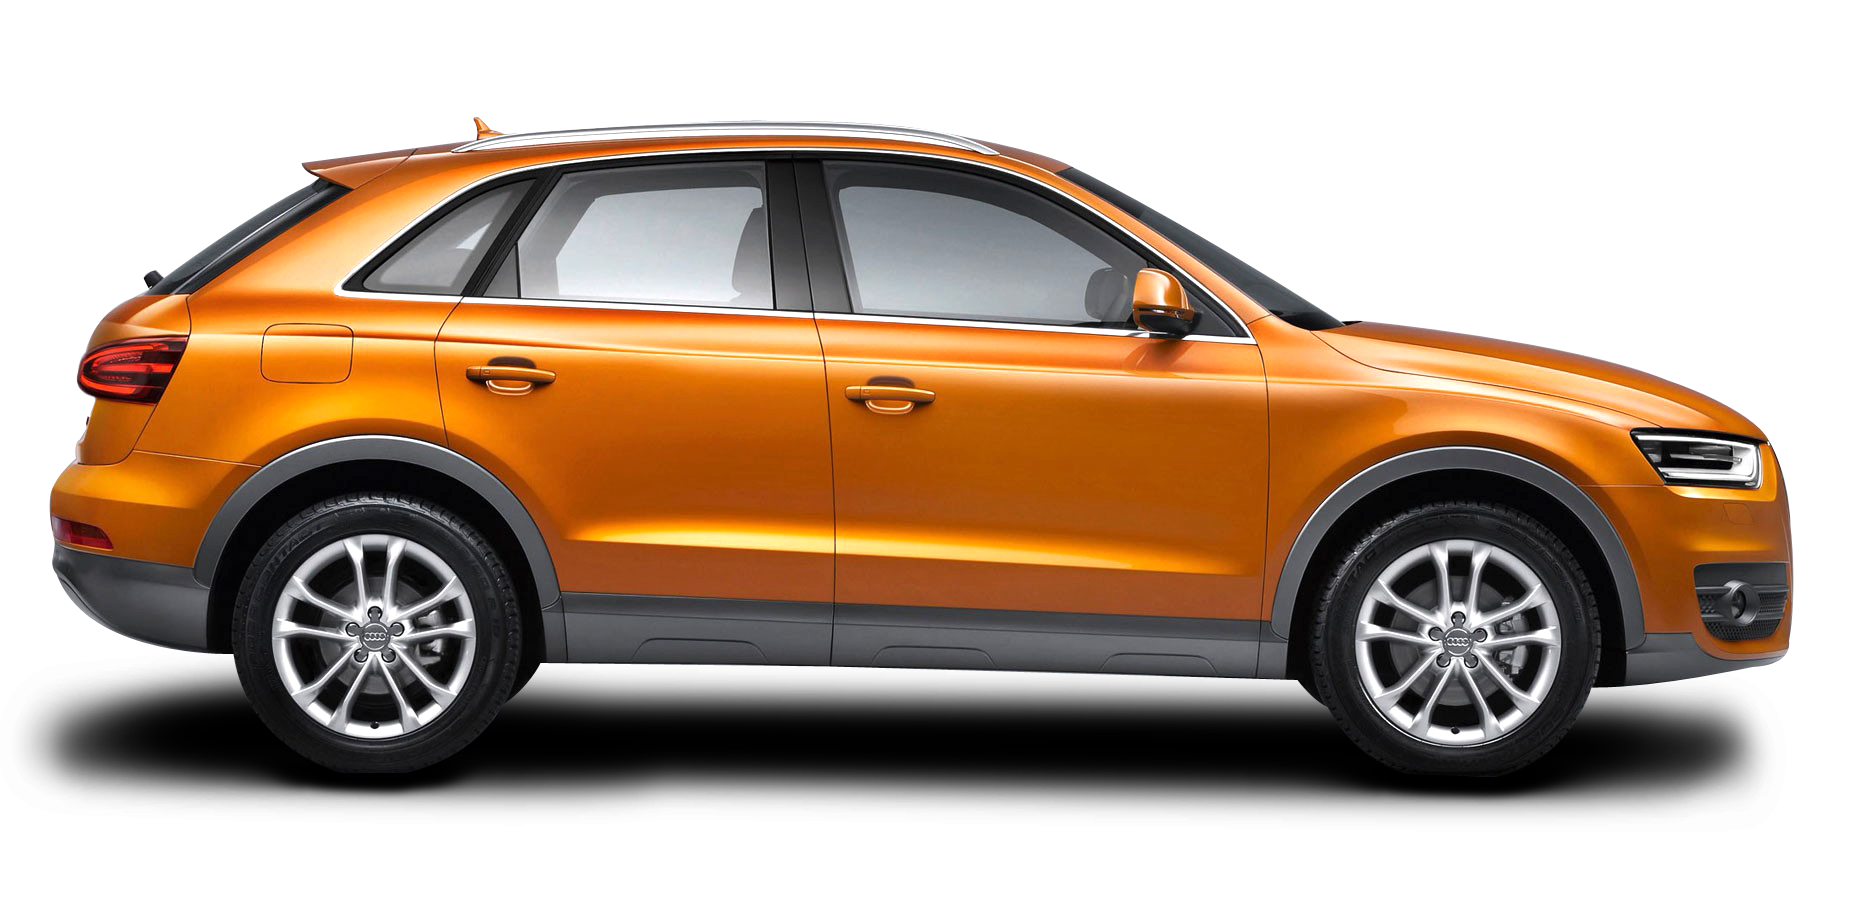
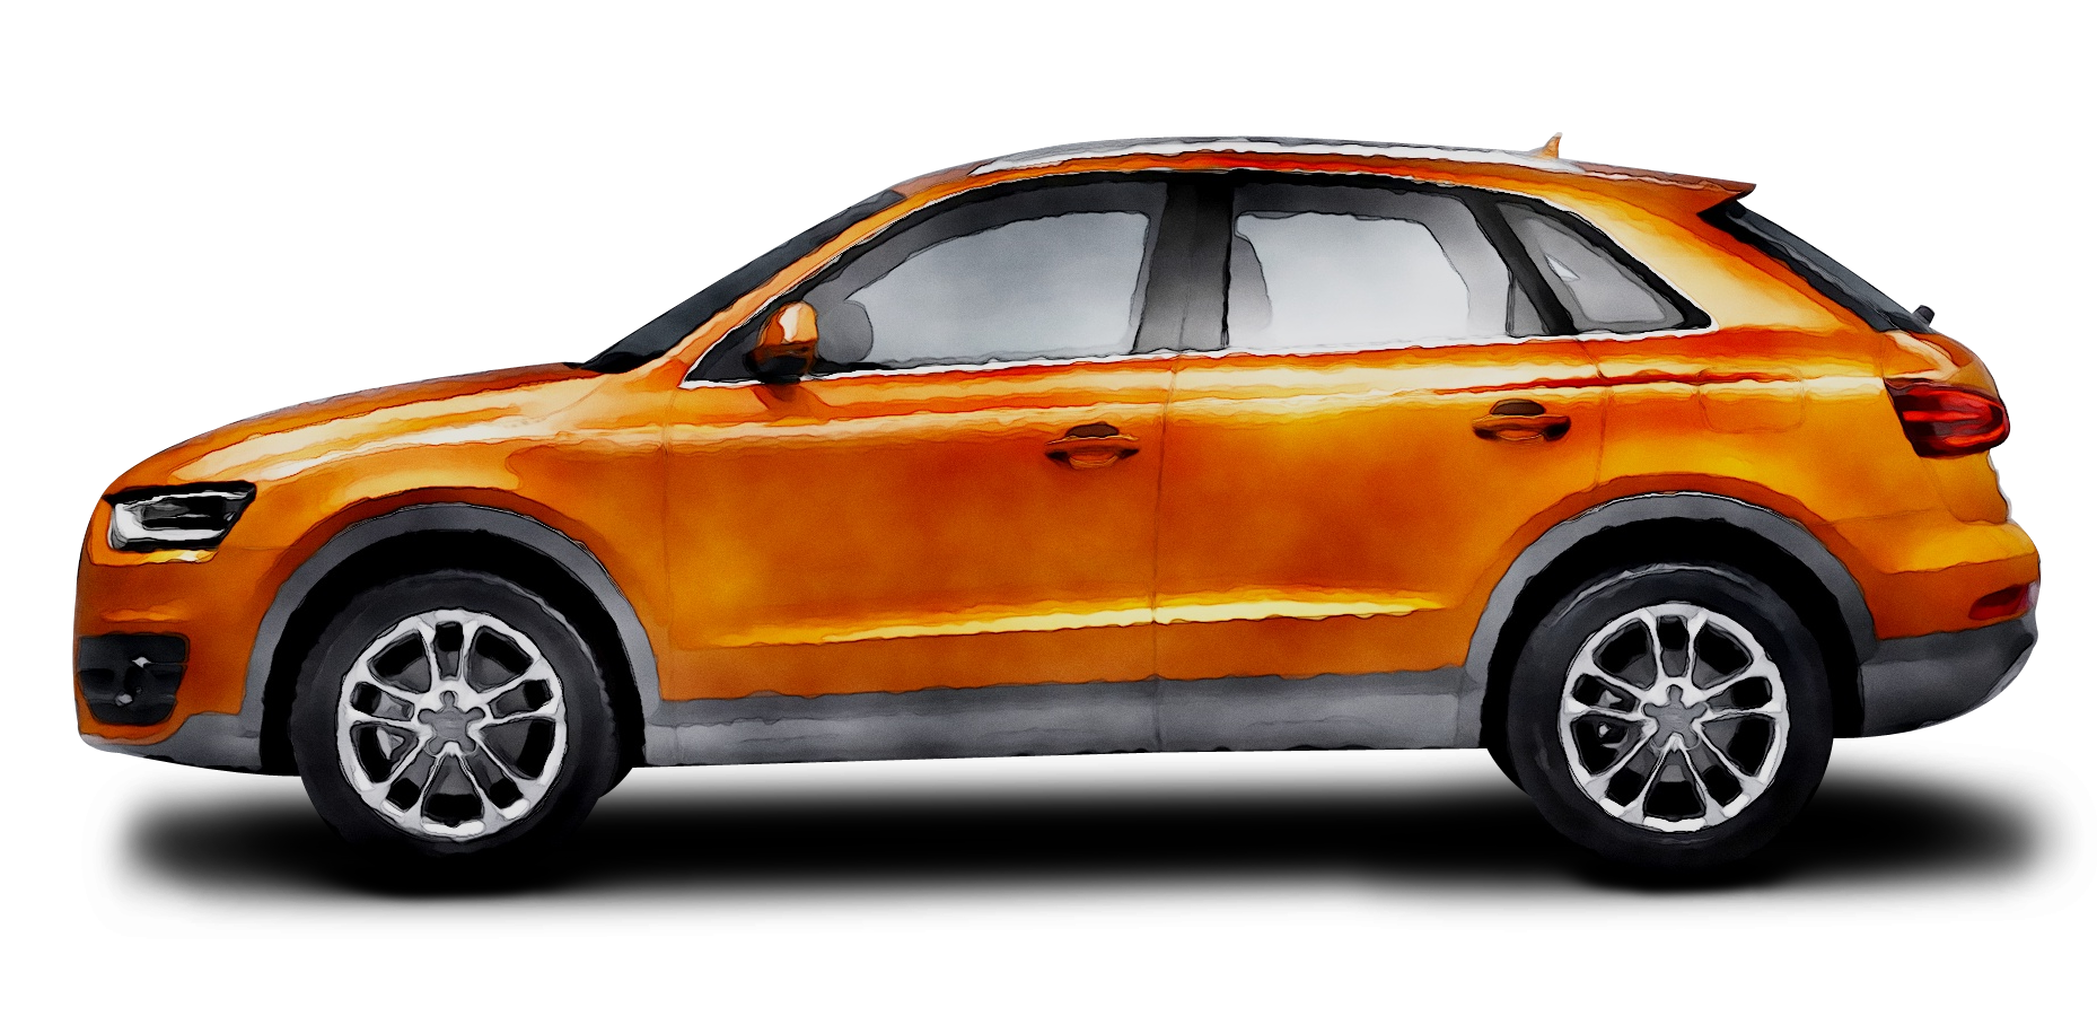
Adicionado caracteristicas do carro

diff --git a/src/components/CarInfo2/index.js b/src/components/CarInfo2/index.js
@@ -1,0 +1,69 @@
+import React from 'react';
+import styled from 'styled-components';
+
+import CarImg from '../../img/car-info2.png';
+
+const WrapperInfo = styled.div`
+    width: 100%;
+    height: 50%;
+    display: flex;
+    color: #A4ADB8;
+`;
+
+const DivCar = styled.div`
+    width: 45%;
+    height: 100%;
+    position: relative;
+    margin-left: 10px;
+    padding-left: 7.5%;
+
+    img {
+        position: absolute;
+        width: 90%;
+        height: 90%;
+        object-fit: contain;
+    }
+`;
+
+const DivDescription = styled.div`
+    width: 45%;
+    height: 100%;
+    padding-left: 10px;
+    padding-right: 5%;
+
+
+    h1 {
+        font-size: clamp(2rem, 4vw, 5rem);
+        color: rgba(0,0,0,0.8);
+        font-weight: bold;
+
+        span {
+            color: #0A4DF2;
+        }
+        
+    }
+
+    p {
+        font-size: clamp(1rem, 1.1rem, 1.3rem);
+    }
+`;
+
+function CarInfo2() {
+  return (
+      <WrapperInfo>
+          <DivDescription>
+            <h1>
+                Veja essa caracteristica <span>2</span>
+            </h1>
+            <p>
+            Lorem ipsum dolor sit amet, consectetur adipiscing elit, sed do eiusmod tempor incididunt ut labore et dolore magna aliqua. Ut enim ad minim veniam, quis nostrud exercitation
+            </p>
+          </DivDescription>
+          <DivCar>
+            <img src={CarImg} />
+          </DivCar>
+      </WrapperInfo>
+  );
+}
+
+export default CarInfo2;

diff --git a/src/components/CarInfo/index.js b/src/components/CarInfo/index.js
@@ -1,0 +1,65 @@
+import React from 'react';
+import styled from 'styled-components';
+
+import CarImg from '../../img/car-info.png';
+
+const WrapperInfo = styled.div`
+    width: 100%;
+    height: 50%;
+    display: flex;
+    color: #A4ADB8;
+`;
+
+const DivCar = styled.div`
+    width: 45%;
+    height: 100%;
+    position: relative;
+
+    img {
+        position: absolute;
+        width: 90%;
+        height: 90%;
+        object-fit: contain;
+    }
+`;
+
+const DivDescription = styled.div`
+    width: 45%;
+    height: 100%;
+    padding-left: 10%;
+
+    h1 {
+        font-size: clamp(2rem, 4vw, 5rem);
+        color: rgba(0,0,0,0.8);
+        font-weight: bold;
+
+        span {
+            color: #0A4DF2;
+        }
+        
+    }
+
+    p {
+        font-size: clamp(1rem, 1.1rem, 1.3rem);
+    }
+`;
+
+function CarInfo() {
+  return (
+      <WrapperInfo>
+          <DivCar>
+            <img src={CarImg} />
+          </DivCar>
+          <DivDescription>
+            <h1>
+                Veja essa caracteristica <span>1</span>
+            </h1>
+            <p>
+            Lorem ipsum dolor sit amet, consectetur adipiscing elit, sed do eiusmod tempor incididunt ut labore et dolore magna aliqua. Ut enim ad minim veniam, quis nostrud exercitation
+            </p>
+          </DivDescription>
+      </WrapperInfo>
+  );
+}
+
+export default CarInfo;

diff --git a/src/components/Article/index.js b/src/components/Article/index.js
@@ -1,0 +1,26 @@
+import React from 'react';
+import styled from 'styled-components';
+import CarInfo from '../CarInfo';
+import CarInfo2 from '../CarInfo2';
+
+
+
+const ArticleWrapper = styled.article`
+    width: 100vw;
+    height: 100vh;
+    padding: 0 5% 0 5%;
+    display: flex;
+    flex-direction: column;
+    align-items: center;
+`;
+
+function Article() {
+  return (
+      <ArticleWrapper>
+          <CarInfo />
+          <CarInfo2 />
+      </ArticleWrapper>
+  );
+}
+
+export default Article;

diff --git a/src/App.js b/src/App.js
@@ -1,11 +1,13 @@
 import Header from './components/Header';
 import Main from './components/Main';
+import Article from './components/Article';
 
 function App() {
   return (
     <div>
       <Header />
       <Main />
+      <Article />
     </div>
   );
 }

diff --git a/src/index.js b/src/index.js
@@ -14,6 +14,7 @@ const GlobalStyle = createGlobalStyle`
     padding: 0;
     box-sizing: border-box;
     font-family: 'Lato', sans-serif;
+    overflow-x: hidden;
 
   }
 `;
